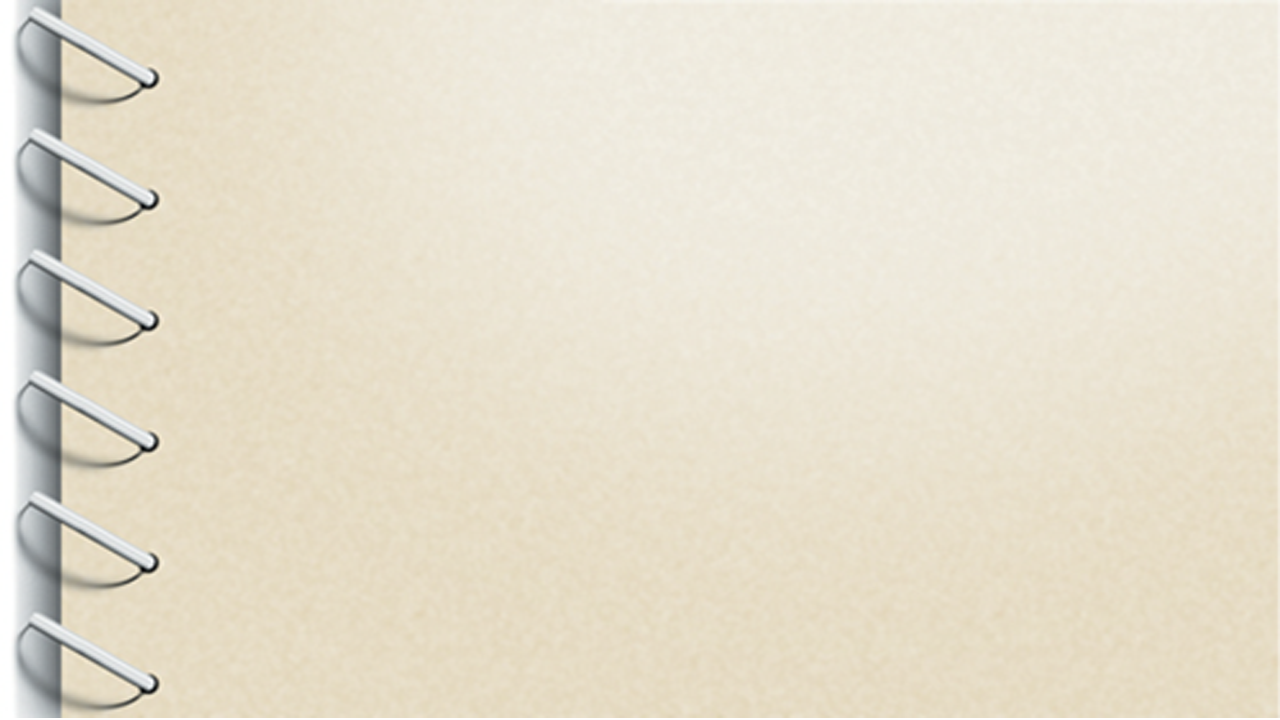
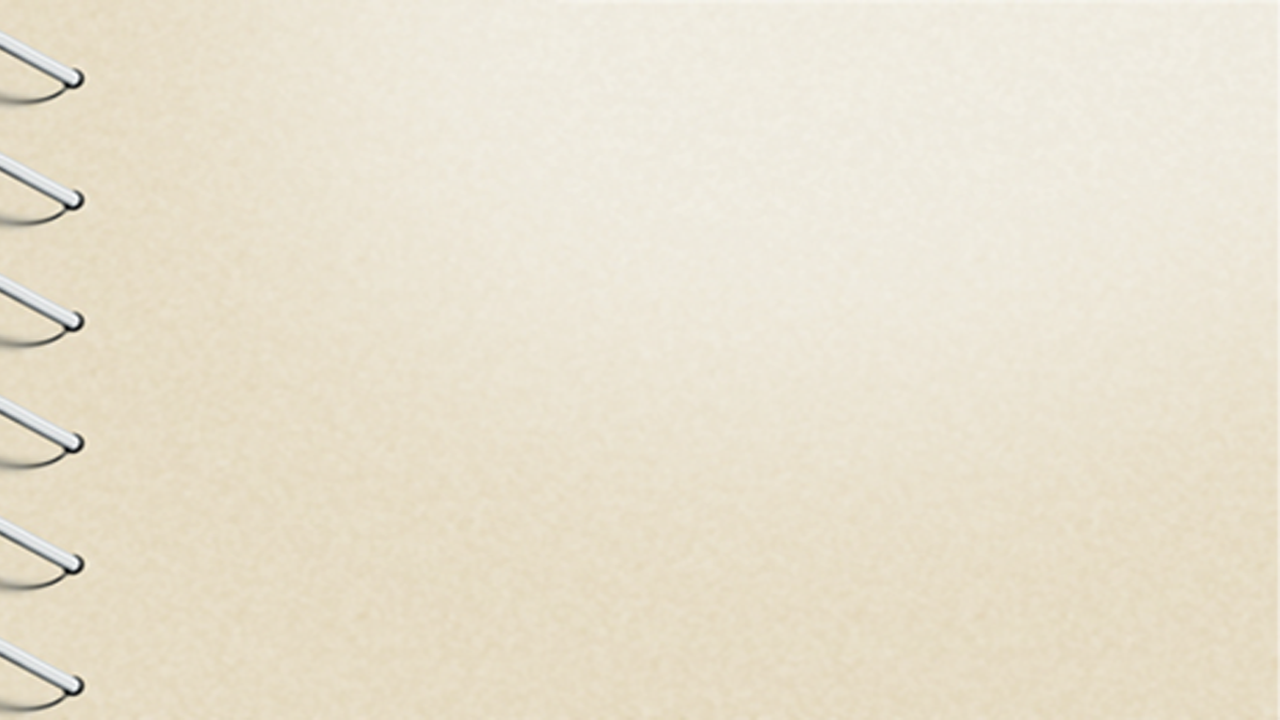
노트 뒤집는 방향 변경.

Changed region(s): [[0.0, 0.0, 1.0, 1.0]]

diff --git a/Classes/DrawingScene.cpp b/Classes/DrawingScene.cpp
@@ -327,12 +327,6 @@ void DrawingScene::menuClickCallback(CCObject* pSender)
 
 void DrawingScene::CheckBoard()
 {
-	CCImage *maskImage = new CCImage();
-	maskImage->initWithImageFile("mask.png");
-	int byte_num = 3;
-	if( maskImage->hasAlpha() )
-		byte_num++;
-	
 	int size = _touches.size();
 	CCPoint start = _touches[0];
 	CCPoint end = _touches[size-1];
@@ -371,5 +365,5 @@ void DrawingScene::afterShowingMessagebox(CCNode *pSender)
 	this->removeChild( pSender );
 	
 	CCScene *pScene = DrawingScene::scene(_nowSceneID);
-	CCDirector::sharedDirector()->replaceScene(CCTransitionPageTurn::create(1, pScene, true));
+	CCDirector::sharedDirector()->replaceScene(CCTransitionPageTurn::create(1, pScene, false));
 }
